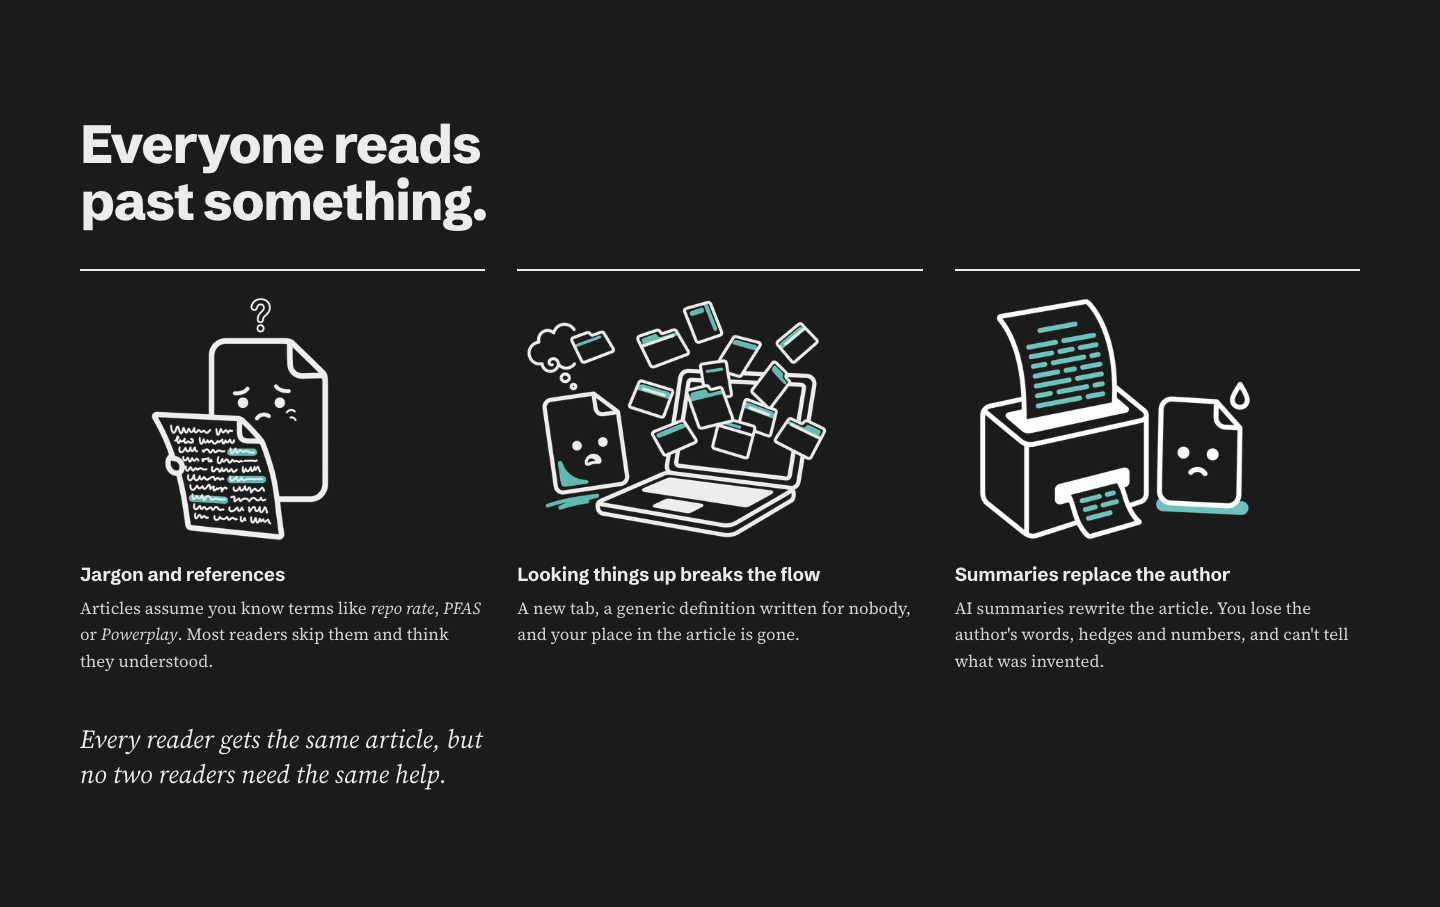
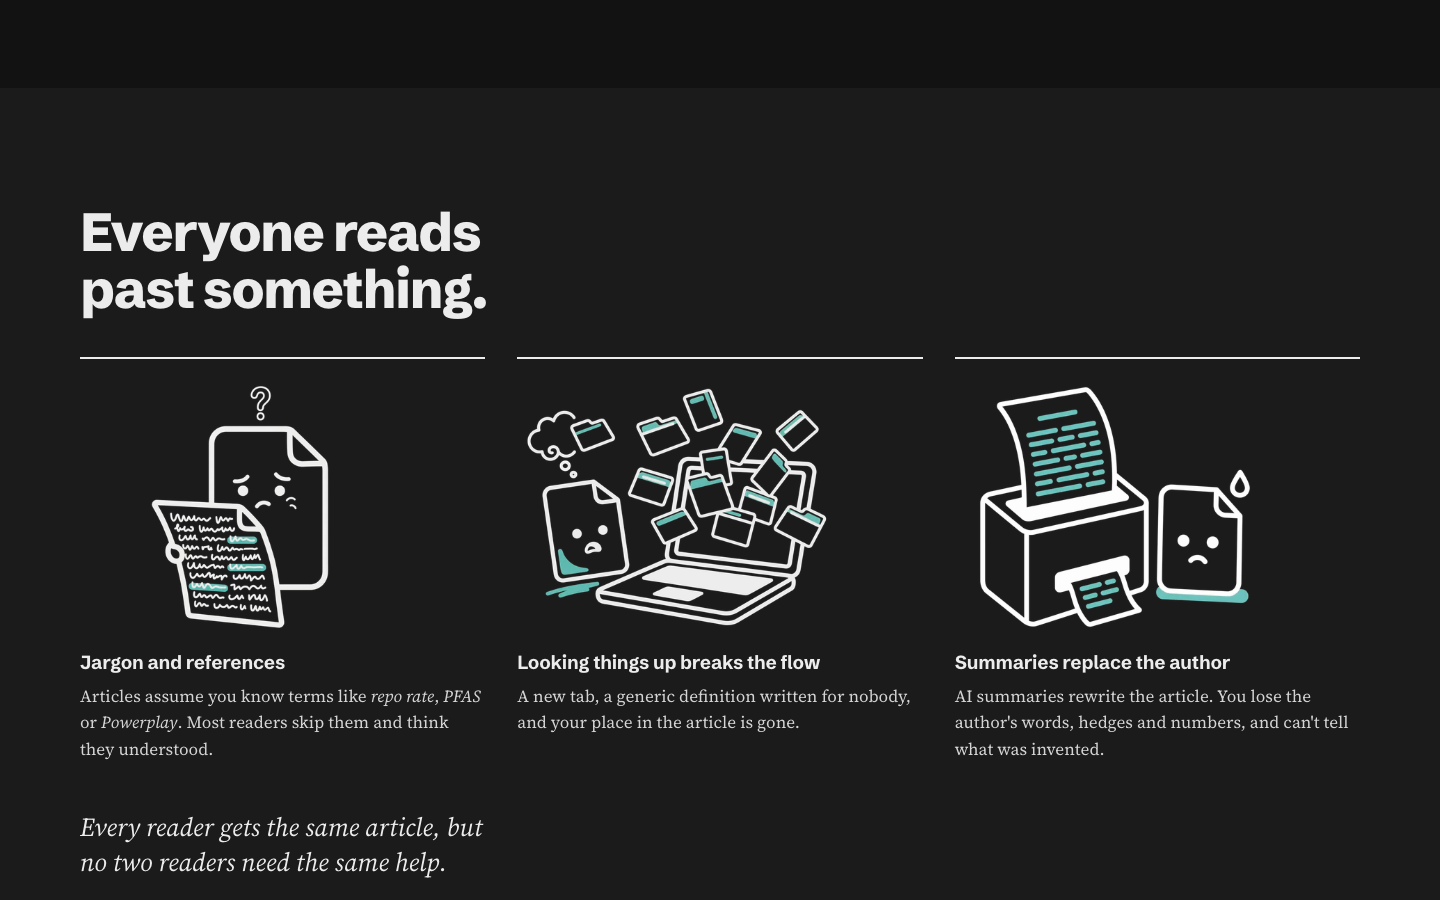
Landing: decision 46 plan amendment (P1–P6), plan-reviewer APPROVE; dark illustrations re-verified, before shots

diff --git a/docs/plans/landing-onboarding.md b/docs/plans/landing-onboarding.md
@@ -462,3 +462,158 @@ scan, added to M9). Built as part 0 of the landing (before §C/§B), same checkp
 - Reviewer nits applied: illustrations are encoded at ~460px and ~920px (2x) wide and clips at
   ~720px wide (each still ≤ 400 KB), so the wider rows stay sharp; BUILD_PLAN acceptance lists
   axe and screenshots at 1280, 1440, 1920 and 390.
+
+## Amendment: decision 46, landing polish (Sourabh, 2026-10-11)
+
+Sourabh reviewed the landing in the browser after V3 (commit 22e111c): the opening is weak and the
+page feels loose. Before screenshots (fresh build, same commit): `docs/evidence/landing/d46-before/`.
+Same checkpoint 1 (end of Oct 12 IST); built before §C/§B. Dark illustrations re-verified first
+(invert filter, white strokes on the dark wash at 390 and 1440; shots in
+`docs/evidence/landing/illustrations/`), no change needed.
+
+### P1. Hero opens on the payoff (items 1, 2, 5)
+- **Annotator 0.7.0: `inline` card host.** New option `inline?: HTMLElement`. When set, the card
+  renders into that element in normal flow at every width (mode `"inline"`: no popover, sidenote,
+  bottom sheet or scrim), `open()` doesn't scroll the page, and outside clicks, scroll and Escape
+  don't close it (Escape moves focus back to the mark). The close button is hidden; exactly one
+  note stays open, and tapping another mark swaps it. Everything else (marks, demo action,
+  loadExplanation, scrollable body region) is unchanged; the reader never sets `inline`.
+  Vitest: inline renders inside the host with no scrim at a narrow width; open() calls no
+  scrollIntoView; outside click / scroll / Escape leave it open; tapping another mark swaps it; axe 0.
+- **Open note on load.** `DemoFrame` gets a note slot under the paragraph inside the sheet;
+  `MiniDemo` passes it as `inline` and, after each `update()`, opens that persona's **featured
+  note**: the first note with an analogy, preferring "bps" (Software engineer → bps, Cricket fan →
+  tighter policy because its bps refresher has no analogy, Policy student → bps). The map lives in
+  `demoPersonas.ts` (`FEATURED_NOTE`), with a vitest that each featured note exists in demo.json
+  and has an analogy. Switching "Read as" swaps the open note. Focus is never moved on load or on
+  a persona switch.
+- **No empty area.** The sheet's fixed min-height goes; the sheet is as tall as source line +
+  paragraph + open note. The note body keeps its own max-height (desktop ~330px, phone ~260px)
+  and scrolls inside (already a focusable region), so the hero height stays stable across
+  personas. Check: the gap between the note's last visible line and the sheet's bottom edge ≤ 24px
+  for all three personas (measured in `tools/shots/landing.py`).
+- **First paint.** `HeroStatic` (and so index.html) renders the default persona's featured note
+  as plain, inert markup in the slot (`DemoNoteStatic`: domain, term, level line, Background,
+  "What the author is saying", from demo.json, styled by landing CSS to the inline card's box:
+  same padding, max-height and fonts). The annotator replaces it in the same box. CLS < 0.1
+  (Lighthouse) and a measured slot-height difference ≤ 4px between static and live at 1440 and 390.
+  The static hero test keeps index.html pinned (`UPDATE_HERO=1`).
+- **Margo attached to the note.** `MargoHero` moves from the head row's corner to the note slot:
+  absolutely positioned at the open note's top-right edge, arm and hand reaching onto the card's
+  top edge (handing it over), ~120px at ≥ 1024, ~88px below. Moods per persona as now. It never
+  covers note text (bounding-box check: no intersection with the card's text nodes).
+- **Sentence case.** "Read as:" (visible label, sentence case); "From The Economic Times" in
+  sentence case; inside `.lp`, card labels (domain, Background, What the author is saying) and
+  every other landing label lose `text-transform: uppercase` and letter-spacing (scoped override
+  in landing.css; the reader's card styles are untouched). Check: no element on "/" or /privacy
+  has computed `text-transform: uppercase` (script, both themes).
+
+### P2. Nav and a higher hero (item 3)
+- Bar: wordmark · "How it works" (anchor to `#how-it-works`, the section gets that id) ·
+  "Privacy" (client route) · "Sign in" (Google, same handler and busy state as the hero) · a small
+  primary "Try the demo" button (same demo handler, current persona) · theme toggle. Below 720px:
+  wordmark, "Sign in", "Try the demo", toggle; "How it works" and "Privacy" stay in the footer
+  (Privacy already is; "How it works" added). Static first paint: links and buttons present but
+  inert until the chunk loads (as the hero CTAs today). 44px targets.
+- Spacing: the bar-to-headline gap drops to ~24–40px (clamp); headline clamp max reduced so it
+  sits in 2 lines at 1440 ("Read anything. / Understand all of it."). **1440×900 first view:**
+  headline, subline, both CTAs and the demo with the open note's title and first lines of
+  Background all inside the viewport. **390×844 first view:** headline, CTAs and the open note's
+  title plus at least one Background line inside the viewport (mobile hero spacing tightened to
+  fit; copy unchanged). Both checked by bounding boxes in the script, screenshots in the log.
+
+### P3. Product shot becomes a phone at the hero card (item 4)
+- The laptop frame, desktop shot and the `lp-shot` section are removed (desktop shot files
+  deleted from `public/landing/`). The phone frame, smaller (~180px wide at ≥ 1024), sits
+  absolutely at the bottom-right of the hero demo card, overlapping its corner, never its text
+  (bounding-box check against paragraph and note); hidden below 1024 (`display: none`, so not
+  requested: `<picture>` inside a `display:none` subtree still loads, so it is rendered only when
+  `matchMedia('(min-width: 1024px)')` matches, via a small hook). Not in the static paint; it
+  doesn't affect layout (absolute), so no shift. The caption moves into the demo caption: "A real
+  paragraph from The Economic Times and real notes; the words are unchanged. Tap a highlighted
+  term."
+
+### P4. Tighter sections (items 6, 7, 9)
+- `--lp-space: clamp(56px, 6.5vw, 96px)` (was 64–128). No section with an empty half.
+- Problem: on ≥ 1024 the heading and a one-line intro share a row (heading left, intro right,
+  baseline-aligned): intro "Three ways a good article loses its reader." (stacked below 1024). The
+  italic line becomes a pull quote right under the three cards (larger italic serif, teal rule).
+- "What you can read": centred, the four formats as one row of four at ≥ 768 (2×2 below), heading
+  centred above.
+- Final CTA: two columns at ≥ 1024: left Margo (happy) + title + CTAs; right the knowledge-map
+  clip (`Clip` with `clip-map`, same lazy load, pause control and reduced-motion poster). Below
+  1024: stacked, centred, clip under the CTAs.
+
+### P5. How it works clips re-cropped (item 8)
+- `landing_media.py --clips` re-records the four clips (no product shots) with tight crops: the
+  highlighted term and the opening card only (clip-note, clip-simpler: the term's line + the card;
+  clip-know: the chip + the term; clip-map: the map's changing region), recorded at
+  deviceScaleFactor 2 and encoded at 720px wide so text renders at ≥ ~14 CSS px in the grid
+  (checked on the posters at 1440 and 390). Poster = a frame with the card open (for clip-note,
+  the last frame after the card has slid in, verified non-blank by a pixel-variance check in the
+  script). Same budgets: ≤ 400 KB per file, WebM + MP4, WebP poster; `STEPS` sizes updated.
+- **Production writes (this amendment):** ≤ 2 runs of `landing_media.py --clips`, each 1
+  anonymous demo reader and its docs, deleted with `DELETE /v1/me`; per run 1 "Know this?" answer,
+  ≤ 3 "Knew this", explain hit counters (+N); "Say it simpler" is cached (0 generations; the
+  dry run confirms, and the run refuses if not cached). No LLM spend expected.
+
+### P6. Checks and docs
+- `tools/shots/landing.py`: first-view boxes at 1440×900 and 390×844, the note-gap check per
+  persona, the no-uppercase check, Margo/phone overlap checks, static vs live slot height; axe 0 at
+  1920/1440/1280/390 light and dark (card open is now the default state); no horizontal scroll;
+  first view at 390×844 < 1.5 MB; landing chunk < 60 KB gzip, main < 150 KB.
+- Lighthouse (next step in the log) runs after P1–P5 on the polished page.
+- After screenshots: `docs/evidence/landing/d46-after/` (1440×900 and 390×844 folds, full pages,
+  each persona's open note, dark). STATUS §10 decision 46; BUILD_PLAN landing section; DESIGN §20.
+- Build order: P1 → P2 → P3 → P4 → P5 → checks. If checkpoint 1 is at risk, ask Sourabh before
+  dropping P5 (the current clips stay).
+
+### Decision 46 round 1 (plan-reviewer REVISE, 10 items + 2 found while reading the annotator; all applied, these override P1–P6)
+1. **1440×900 = the whole demo.** The script requires the entire demo figure (toggle, sheet,
+   open note box at its max-height, caption) plus headline, subline and CTAs inside y ≤ 900, for
+   all three personas. 390×844 stays: headline, CTAs, note title + one Background line.
+2. **390×844 fallback order (mobile only), decided now:** (a) the fine print moves below the
+   demo; (b) the CTAs sit side by side (shorter visual width, same labels; if a label wraps, the
+   pair stacks again and we go on to c); (c) the note's level line is hidden. Anything beyond that
+   goes to Sourabh.
+3. **All-caps really gone.** The `.lp` override resets `text-transform: none`, `font-variant:
+   normal` and `letter-spacing: normal`, with selectors more specific than the annotator's
+   runtime-injected ones (e.g. `.lp .rl-card .rl-card__domain`). Script: on "/" and /privacy, both
+   themes, no element has computed `text-transform: uppercase`, a `font-variant` containing
+   `small-caps`, or `letter-spacing` > 0.02em.
+4. **Inline semantics.** In `inline` mode the card is `role="group"` (same
+   aria-labelledby/describedby), no `role="dialog"`/`aria-modal`; the status live region stays
+   silent on load and on persona switches (it announces only after a reader-initiated open, as
+   today). Vitest: inline has no dialog role.
+5. **Persona-switch race.** `MiniDemo` awaits `update()`, keeps a sequence number and opens the
+   featured note only if it is still the latest switch; `open(id, { focus: false })` never scrolls
+   in inline mode. Vitest: A→B→A toggled fast ends with A's featured note open.
+6. **Static → live swap in one frame.** `DemoNoteStatic` stays until the live inline card has
+   its explanation rendered (no skeleton visible: the demo explanation is resolved before the card
+   is revealed), then the static note is removed and the live card shown in the same frame. The
+   static markup includes the demo action button's box and the footer label. The script samples
+   the slot height every animation frame from load through the swap (max − min ≤ 4px).
+7. **Phone geometry.** The phone overlaps only the card's border/padding corner and hangs outside
+   the right and bottom edges; the hero gets bottom padding so it ends above the next section.
+   Bounding-box checks: no intersection with paragraph, note body (also after scrolling the note
+   body to its end), figcaption, Margo, or the next section's heading. No horizontal scroll at
+   1024 and 1280 (smallest right gutter); if the phone + Margo don't fit at 1024, the phone shows
+   from 1280 only.
+8. **Clip legibility measured.** `landing_media.py` records each crop's CSS width; the landing
+   script computes displayed clip width ÷ crop CSS width × 14 px (smallest card body size) and
+   requires ≥ 14 at 1440 and ≥ 12 at 390 (single column, phone); numbers logged in
+   `docs/evidence/landing/d46-after/clips.txt`.
+9. **Removals updated together:** the V6 vitest over `public/landing/` (names and sizes),
+   `landing_media.py` loses the desktop product-shot capture (phone shot kept, `--clips` added),
+   `lp-shot` styles removed, DESIGN §20 and the V2 caption text updated, `ProductShot.tsx` reduced
+   to the phone.
+10. **Slip plan.** If checkpoint 1 is at risk, ask Sourabh about dropping, in order: P5 (current
+    clips stay), then the final-CTA map clip (centred Margo + CTAs instead). A log line with the
+    time after P1 and P2 so the risk call happens early.
+11. **No focus trap inline.** The card's Tab cycling (`onCardKeyDown`) is off in inline mode; Tab
+    moves through the card and on to the page.
+12. **No hover peeks inline.** Hovering another mark doesn't open or schedule a close in inline
+    mode (the open note never disappears); click, tap, Enter or Space swaps it; clicking the open
+    note's own mark is a no-op.
+- Round 2: **APPROVE**. Nits: the 12 px phone clip figure is in STATUS §10's decision 46 row; if
+  item 7's fallback (phone from 1280 only) is used, it is logged and added to that row.

diff --git a/docs/STATUS.md b/docs/STATUS.md
@@ -489,6 +489,7 @@ record the video; build the deck; Cloud Run min instances 1 for Oct 19 – Nov 6
 | 43 | Checkpoints for /clear (Sourabh, 2026-10-11) | At the end of each milestone (merged, deployed, STATUS and AUTOPILOT_LOG updated, all committed) and at natural mid-milestone checkpoints (all committed, the log names the exact next step), stop and say "READY FOR /clear" with a one-line resume note. Added to the CLAUDE.md working agreement |
 | 44 | Landing visuals and light default (Sourabh, 2026-10-11) | Keep the landing's structure, copy, headline, Read-as demo and the side-by-side; add visuals: a large Margo character in the hero (pointing at the note, mood follows the persona toggle) and the final CTA; a laptop + phone product shot of the real reader (AVIF/WebP 1x/2x, source credited); three problem illustrations from Google's image model on Vertex (flat ink + teal, Margo as character reference, credited in the footer; model, prompts, cost in DESIGN/STATUS); How it works as a 2×2 grid of 3–5 s silent looping clips from the real app (WebM + MP4 ≤ 400 KB, poster only under reduced motion); a full-width teal trust band with the eval results as large figures; alternating paper/wash bands. Budgets unchanged (LCP < 2.5 s mobile, first view < ~1.5 MB, below-fold lazy, axe 0). **Light is the default theme**: dark only via the toggle, not the OS. GitHub links stay; the repo goes public at submission after a gitleaks scan (M9). Plan amendment in `docs/plans/landing-onboarding.md` |
 | 45 | Wider layouts (Sourabh, 2026-10-11) | Pages feel cramped with large side margins on wide screens. Landing (this milestone): section containers up to ~1280px, hero a 50/50 split (copy · big Margo + demo), illustrations, clips and the teal trust band may be full-bleed, fluid spacing with clamp(). Feed/library (container ~1280px, wider rows, filled sidebar, a third column at ≥ 1440px with a "Your map this week" mini-map and goals), profile (more domain-card columns, knowledge map full container width and taller) and reader (text column stays ~680px; note margin on the right as now; at ≥ 1280px a slim left rail with contents, reading progress and notes count): a separate **Wide layout** follow-up after Landing and onboarding ships and before M8 (not small enough for the same PR: new third column, reader left rail, profile restructure), own plan and reviewer loop. Screenshots at 1280, 1440, 1920 and 390 |
+| 46 | Landing polish (Sourabh, 2026-10-11) | The opening is weak and the page loose. Hero: the demo opens with one note already expanded (bps for the software engineer; "Read as" swaps the open note and its analogy), no empty area below it; Margo attached to the open note's top edge, handing it over, moods as before; nav adds How it works, Privacy, Sign in and a small Try the demo button; the hero sits higher and fits a 1440×900 first view with the open note; the laptop shot goes, a smaller phone overlaps the hero card's bottom-right on desktop (hidden on mobile); "Read as:" and no tracked all-caps labels. Sections: padding about halved (clamp ~56–96px), no empty halves; problem heading + one-line intro on a row, the italic line as a pull quote under the cards; How it works clips re-cropped tight and readable (measured: card text ≥ 14 px at 1440, ≥ 12 px in the single phone column), first poster showing the card; "What you can read" centred; final CTA gains the knowledge-map clip beside Margo. First view at 1440×900 and 390×844 shows headline, CTAs and an open note; before/after screenshots in the log. Plan amendment P1–P6 in `docs/plans/landing-onboarding.md` |
 
 No decisions are open.
 

diff --git a/docs/AUTOPILOT_LOG.md b/docs/AUTOPILOT_LOG.md
@@ -545,3 +545,18 @@ changed, live URLs and numbers. Newest entries at the bottom of each milestone.
    `docs/evidence/landing/`.
 2. Checkpoint 1 (end of Oct 12 IST), then the onboarding API (§C incl. decision 42) and the
    2-screen WelcomePage (§B).
+
+- Resumed after /clear (2026-10-11). Dark illustrations re-verified on a fresh build: the invert
+  filter gives white strokes and lighter teal on the dark wash at 390 and 1440, clearly visible;
+  no backing needed (shots in `docs/evidence/landing/illustrations/`). Landing checks on the
+  fresh build: axe 0 and no horizontal scroll everywhere, first view at 390 = 211 KB.
+- **Decision 46** (Sourabh, landing polish, 9 items: payoff-first hero with an open note, Margo on
+  the note, fuller nav and a higher hero, phone-only product shot on the hero card, sentence-case
+  labels, halved section padding, problem row + pull quote, re-cropped clips, no empty halves).
+  Recorded in STATUS §10. Before shots: `docs/evidence/landing/d46-before/`. Plan amendment P1–P6
+  drafted. plan-reviewer round 1: REVISE (10: whole demo inside 1440×900, a 390 fallback order,
+  small-caps and tracking too, inline card semantics, persona-switch race, one-frame static→live
+  swap, phone geometry, measured clip legibility, removals together, slip plan); plus 2 found in
+  the annotator (no focus trap, no hover peeks inline). Round 2: **APPROVE**; nits applied (12 px
+  phone clip figure in STATUS; if the phone only fits from 1280, it gets logged and noted in the
+  decision 46 row). Lighthouse moves after the polish.
